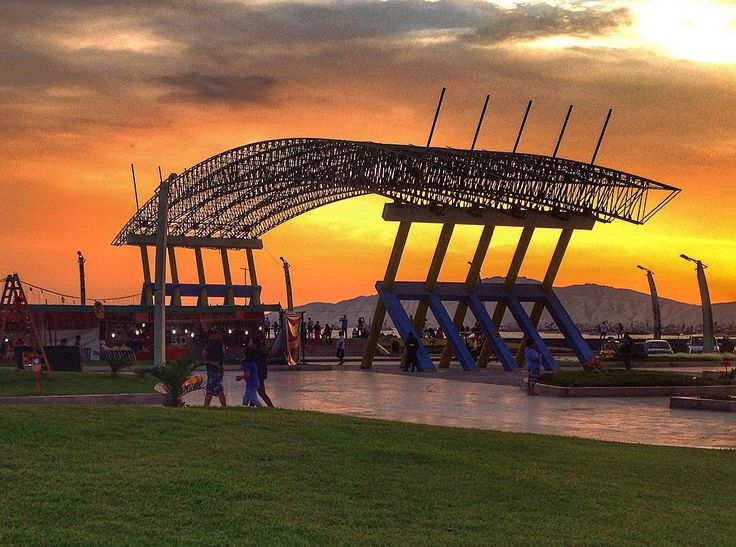
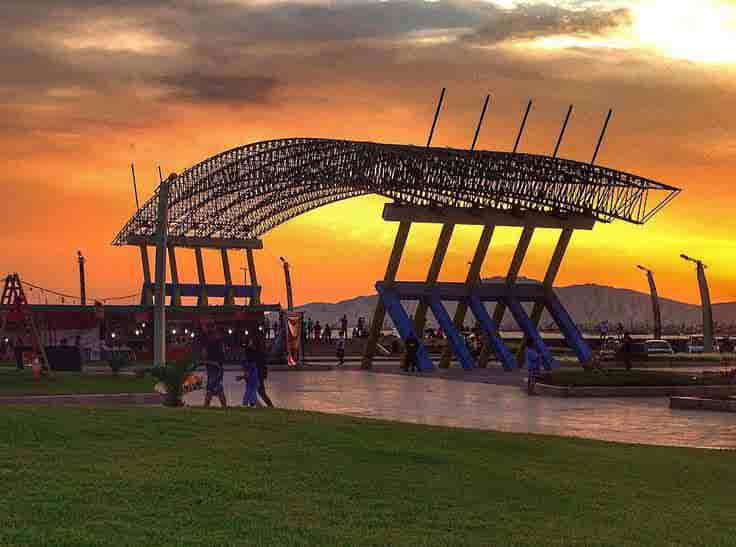
reduced the file size of each image used in this page

diff --git a/chamber/styles/larger.css b/chamber/styles/larger.css
@@ -37,7 +37,7 @@
         text-align: left;
         margin-left: 2em;
         font-size: larger;
-        
+
     }
 
     .title h1,
@@ -197,10 +197,37 @@
             "e e";
     }
 
+    .place-content p {
+        font-size: larger;
+    }
+
     .place-content img {
         width: 300px;
         height: 240px;
         object-fit: cover;
+
+    }
+
+    .place-content img:hover {
+        animation: turnLeft 0.4s ease forwards;
+    }
+
+    @keyframes turnLeft {
+
+        25% {
+
+            filter: blur(3px);
+        }
+
+        50% {
+
+            filter: blur(1px);
+        }
+
+        to {
+
+            scale: 108%;
+        }
     }
 
     /*THX*/

diff --git a/chamber/styles/base.css b/chamber/styles/base.css
@@ -421,15 +421,11 @@ dialog button:hover {
 
 /*DISCOVER*/
 
-
-.place-card {
-    min-height: 520px;
-}
-
 .discover-grid {
+    min-height: 900px;
     padding-inline: 1rem;
     justify-items: center;
-
+    margin-bottom: 1em;
 }
 
 .place-content {
@@ -468,7 +464,6 @@ dialog button:hover {
 }
 
 .place-card img {
-    aspect-ratio: 4 / 3;
     object-fit: cover;
     width: 100%;
     height: auto;

diff --git a/chamber/discover.html b/chamber/discover.html
@@ -25,7 +25,7 @@
     <link rel="stylesheet" href="styles/base.css">
     <link rel="stylesheet" href="styles/medium.css">
     <link rel="stylesheet" href="styles/larger.css">
-    <script type="module" src="scripts/discover.mjs"></script>
+    <script type="module" src="scripts/discover.mjs" defer></script>
 </head>
 
 <body>
